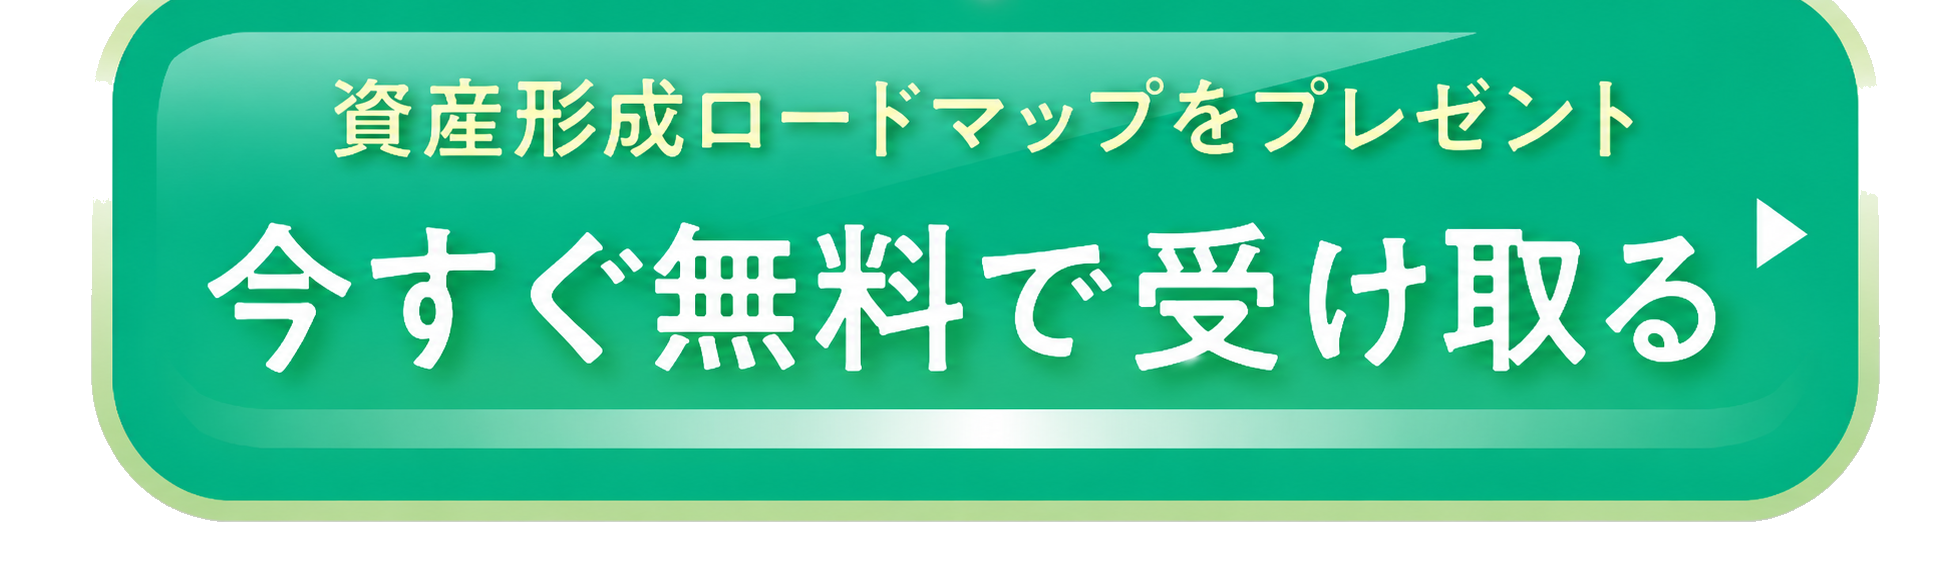
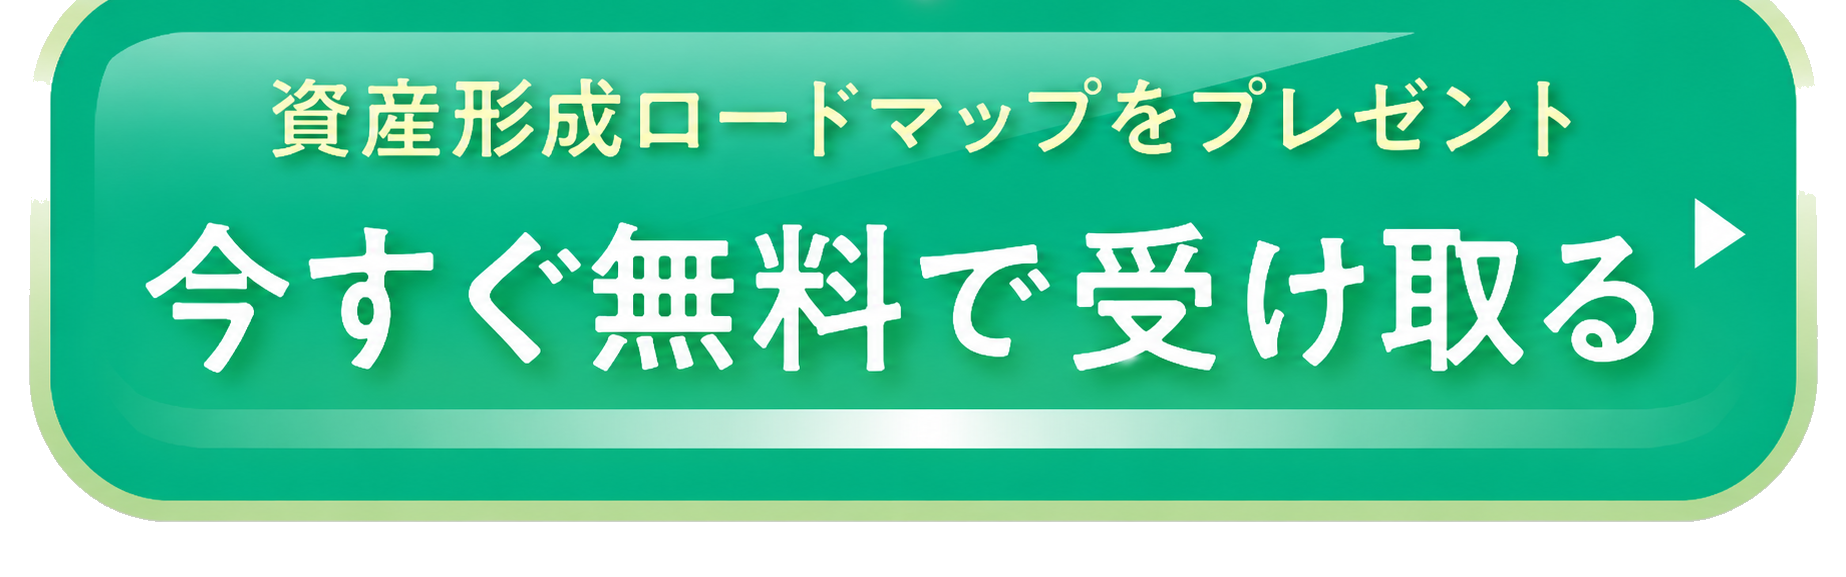
監修・プロフィールを画像版に戻す（本文/プロフィール拡大を取消）／FVボタンとFVの隙間を詰める／全CTAボタンの緑幅を最下部に統一(透明マージン除去)

diff --git a/index.html b/index.html
@@ -710,53 +710,13 @@ a{text-decoration:none;color:inherit;}
 .kanshu-card{
   width:min(92%,600px);margin:0 auto;background:#fff;
   border:1px solid #E3C97E;outline:4px solid #fff;border-radius:4px;
-  text-align:left;padding:30px 7%;line-height:2.0;
-  font-size:clamp(16.5px,4.6vw,21px);font-weight:500;
+  text-align:left;padding:26px 6%;line-height:2.05;
+  font-size:clamp(14.5px,4vw,18px);font-weight:500;
   box-shadow:0 6px 16px rgba(190,110,130,.2);
 }
 .kanshu-card p+p{margin-top:1em;}
 .kanshu-card b{color:var(--main);font-weight:900;}
 .kanshu-card .center{text-align:center;font-family:var(--serif);font-weight:700;}
-
-/* プロフィール（横並び・テキスト版） */
-.kanshu-profile{
-  display:flex;align-items:flex-start;gap:3%;
-  background:linear-gradient(180deg,#FCE7EC 0%,#FBDCE4 100%);
-  padding:30px 5% 36px;text-align:left;
-}
-.kanshu-profile .kp-photo{flex:0 0 43%;align-self:stretch;display:flex;align-items:flex-end;}
-.kanshu-profile .kp-photo img{width:100%;display:block;border-radius:4px;}
-.kanshu-profile .kp-info{flex:1;padding-top:6px;}
-.kanshu-profile .kp-name{
-  font-family:var(--serif);font-weight:900;color:var(--main);
-  font-size:clamp(38px,10vw,58px);line-height:1.05;letter-spacing:.04em;margin:0;
-}
-.kanshu-profile .kp-en{
-  display:block;font-family:var(--script);
-  color:#C9244F;font-weight:600;font-size:.44em;letter-spacing:.1em;margin-top:4px;
-}
-.kanshu-profile .kp-line{
-  height:1px;background:linear-gradient(90deg,transparent,#D9A0AE 20%,#D9A0AE 80%,transparent);
-  margin:14px 0 18px;
-}
-.kanshu-profile .kp-list{list-style:none;margin:0;padding:0;}
-.kanshu-profile .kp-list li{
-  position:relative;padding-left:22px;
-  font-size:clamp(15.5px,4.2vw,20px);font-weight:600;line-height:1.62;margin-bottom:13px;
-}
-.kanshu-profile .kp-list li:last-child{margin-bottom:0;}
-.kanshu-profile .kp-list li::before{
-  content:"";position:absolute;left:2px;top:.5em;width:10px;height:10px;border-radius:50%;
-  background:#E0577E;
-}
-.kanshu-profile .kp-list li b{color:var(--main);font-weight:900;}
-@media (max-width:480px){
-  .kanshu-profile{flex-direction:column;align-items:center;gap:20px;}
-  .kanshu-profile .kp-photo{flex:0 0 auto;width:74%;}
-  .kanshu-profile .kp-info{width:100%;}
-  .kanshu-profile .kp-name{text-align:center;}
-  .kanshu-profile .kp-line{margin:14px auto 18px;}
-}
 
 /* ============================================================
    8. プロフィール
@@ -897,8 +857,8 @@ footer .f-copy{margin-top:14px;font-size:12px;opacity:.95;}
   <!-- ============ 1. ファーストビュー ============ -->
   <section class="fv">
     <img src="images/fv-v2.png" alt="年商1億を資産10億へ。ビジネスの利益を資産に変える 女性起業家の資産形成完全ロードマップ｜完全無料・オンライン勉強会を開催中！動画講座全3回(100分以上)プレゼント！豪華で30大特典プレゼント中｜3児のママ経営者 松田リエ（年商10億・資産20億超・40家以上を保有・M&Aを経験）">
-    <div class="cta-wrap" style="padding-top:18px;">
-      <a class="cta-link" href="https://line.me/R/ti/p/@623nffxx"><img class="cta-img" src="images/cta-btn-only.png?v=1" alt="資産形成ロードマップをプレゼント。今すぐ無料で受け取る" width="1942" height="577"></a>
+    <div class="cta-wrap" style="padding-top:0;margin-top:-26px;">
+      <a class="cta-link" href="https://line.me/R/ti/p/@623nffxx"><img class="cta-img" src="images/cta-btn-only.png?v=2" alt="資産形成ロードマップをプレゼント。今すぐ無料で受け取る" width="1846" height="577"></a>
     </div>
   </section>
 
@@ -952,7 +912,7 @@ footer .f-copy{margin-top:14px;font-size:12px;opacity:.95;}
     </div>
 
     <div class="cta-wrap" style="margin-top:36px;">
-      <a class="cta-link" href="https://line.me/R/ti/p/@623nffxx"><img class="cta-img" src="images/cta-btn.png?v=3" alt="お金が増え続けていく仕組みを作りませんか？資産形成ロードマップをプレゼント。今すぐ無料で受け取る" width="1942" height="809"></a>
+      <a class="cta-link" href="https://line.me/R/ti/p/@623nffxx"><img class="cta-img" src="images/cta-btn-trim.png?v=1" alt="お金が増え続けていく仕組みを作りませんか？資産形成ロードマップをプレゼント。今すぐ無料で受け取る" width="1846" height="809"></a>
     </div>
   </section>
 
@@ -979,44 +939,7 @@ footer .f-copy{margin-top:14px;font-size:12px;opacity:.95;}
 
   <!-- ============ 7. 監修者セクション ============ -->
   <section class="kanshu">
-    <div class="kanshu-top">
-      <div class="kt-circle"><img src="images/rie_circle.jpg" alt="松田リエ"></div>
-      <p class="kt-copy"><small>年商1億を、</small><br>資産10億へ。</p>
-    </div>
-    <span class="kn-black">3児のママ経営者が実践する</span>
-    <p class="kn-gold">
-      <svg class="laurel" viewBox="0 0 40 80" fill="none"><path d="M30 6C16 18 10 34 12 52c2 12 8 20 16 24" stroke="#C49A3C" stroke-width="3" stroke-linecap="round"/><g fill="#C49A3C"><ellipse cx="26" cy="12" rx="3" ry="7" transform="rotate(40 26 12)"/><ellipse cx="18" cy="24" rx="3" ry="7" transform="rotate(25 18 24)"/><ellipse cx="13" cy="38" rx="3" ry="7" transform="rotate(10 13 38)"/><ellipse cx="13" cy="52" rx="3" ry="7" transform="rotate(-8 13 52)"/><ellipse cx="18" cy="64" rx="3" ry="7" transform="rotate(-28 18 64)"/></g></svg>
-      <span class="gold-txt">女性起業家の<br>資産形成術</span>
-      <svg class="laurel r" viewBox="0 0 40 80" fill="none"><path d="M30 6C16 18 10 34 12 52c2 12 8 20 16 24" stroke="#C49A3C" stroke-width="3" stroke-linecap="round"/><g fill="#C49A3C"><ellipse cx="26" cy="12" rx="3" ry="7" transform="rotate(40 26 12)"/><ellipse cx="18" cy="24" rx="3" ry="7" transform="rotate(25 18 24)"/><ellipse cx="13" cy="38" rx="3" ry="7" transform="rotate(10 13 38)"/><ellipse cx="13" cy="52" rx="3" ry="7" transform="rotate(-8 13 52)"/><ellipse cx="18" cy="64" rx="3" ry="7" transform="rotate(-28 18 64)"/></g></svg>
-    </p>
-    <p class="kn-slash">事業と資産形成の両立を実現した</p>
-    <div class="kanshu-ribbon"><p><small>WOMAN ENTREPRENEUR</small>女性起業家<br>松田リエ監修</p></div>
-    <div class="kanshu-body">
-      <div class="kanshu-card">
-        <p><b>年商10億、資産20億超、40室以上の不動産を保有</b>し、<b>M&amp;Aも経験した3児のママ経営者・松田リエ</b>が監修。</p>
-        <p>事業で利益を生み出すだけでなく、その利益を不動産や資産へ変え、<b>自分が働かなくてもお金が増えていく仕組み</b>を構築。</p>
-        <p>売上を追い続ける経営者ではなく、<b>資産が増え続ける経営者</b>になるための考え方や具体的な方法を体系化しました。</p>
-        <p class="center">「何を買うか」ではなく、<br><span class="red">「どう資産を作るか」。</span></p>
-        <p>事業利益を資産へ変え、<b>年商1億を資産10億へ育てていくための資産形成無料講座</b>です。</p>
-      </div>
-    </div>
-    <div class="kanshu-profile">
-      <div class="kp-photo"><img src="images/rie-fig.png?v=1" alt="松田リエ"></div>
-      <div class="kp-info">
-        <p class="kp-name">松田リエ<span class="kp-en">Rie Matsuda</span></p>
-        <div class="kp-line"></div>
-        <ul class="kp-list">
-          <li><b>年商10億、資産20億超、40室以上の不動産</b>を保有</li>
-          <li><b>3児のママ経営者</b>として、事業と資産形成の両立を実践</li>
-          <li>事業利益を不動産へ変え、<b>自分が働かなくても収益が生まれる仕組み</b>を構築</li>
-          <li><b>M&amp;Aを経験</b>し、事業を作るだけでなく、お金を増やす経営を実現</li>
-          <li>累計受講生<b>4,500名以上</b></li>
-          <li>YouTube登録者<b>22万人</b>、総フォロワー<b>70万人超</b></li>
-          <li>出版<b>17冊</b>、累計<b>43万部</b>突破</li>
-          <li>テレビ出演<b>16回以上</b></li>
-        </ul>
-      </div>
-    </div>
+    <img class="profile-img" src="images/profile-top.png?v=2" alt="年商1億を資産10億へ。3児のママ経営者が実践する女性起業家の資産形成術。女性起業家 松田リエ監修。年商10億・資産20億超、40室以上の不動産を保有、M&Aも経験した3児のママ経営者・松田リエが監修。累計受講生4,500名以上／YouTube登録者22万人・総フォロワー70万人超／出版17冊・累計43万部突破／テレビ出演16回以上" width="1012" height="1554">
     <img class="profile-img" src="images/jisseki.png?v=3" alt="実績画像・メディア掲載多数。累計受講生4,500名以上／YouTube総登録者22万人以上／総フォロワー70万人突破／累計43万部突破／メディア出演16回以上" width="724" height="1164">
   </section>
 
